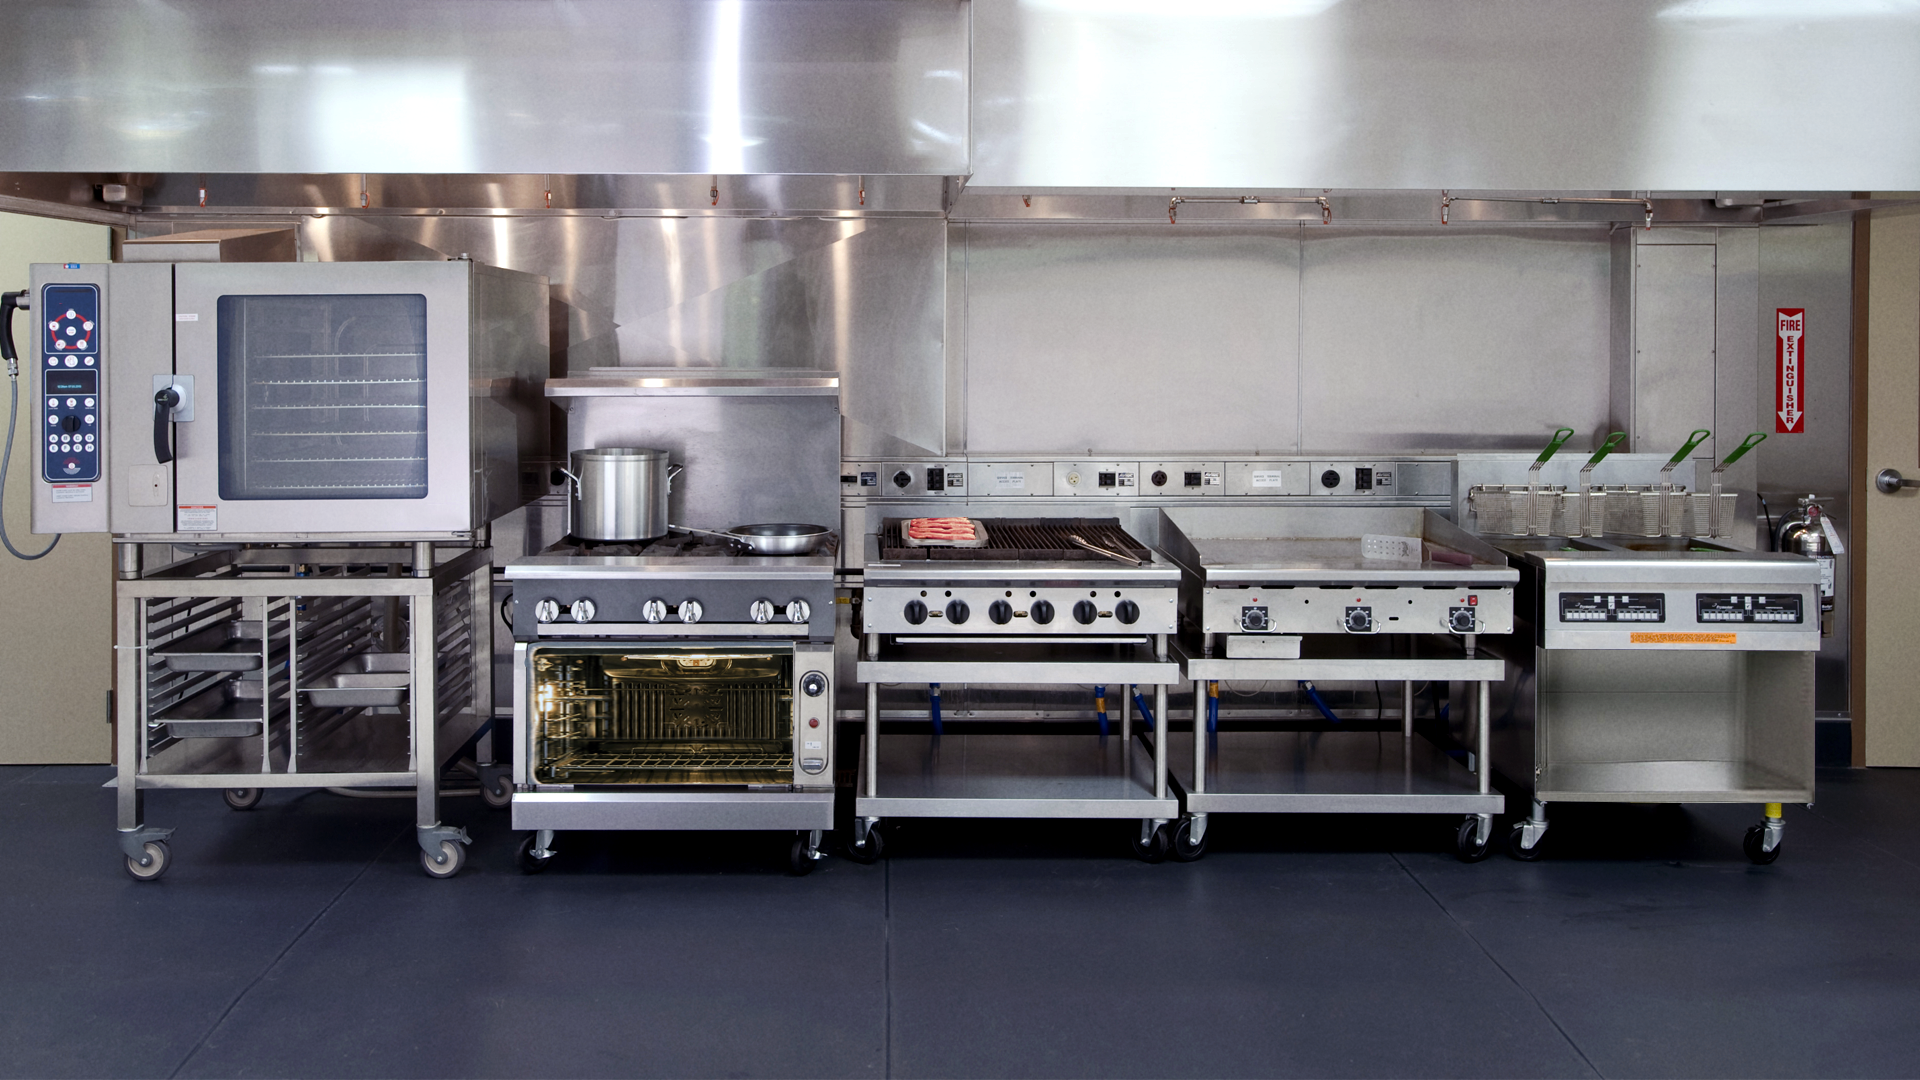
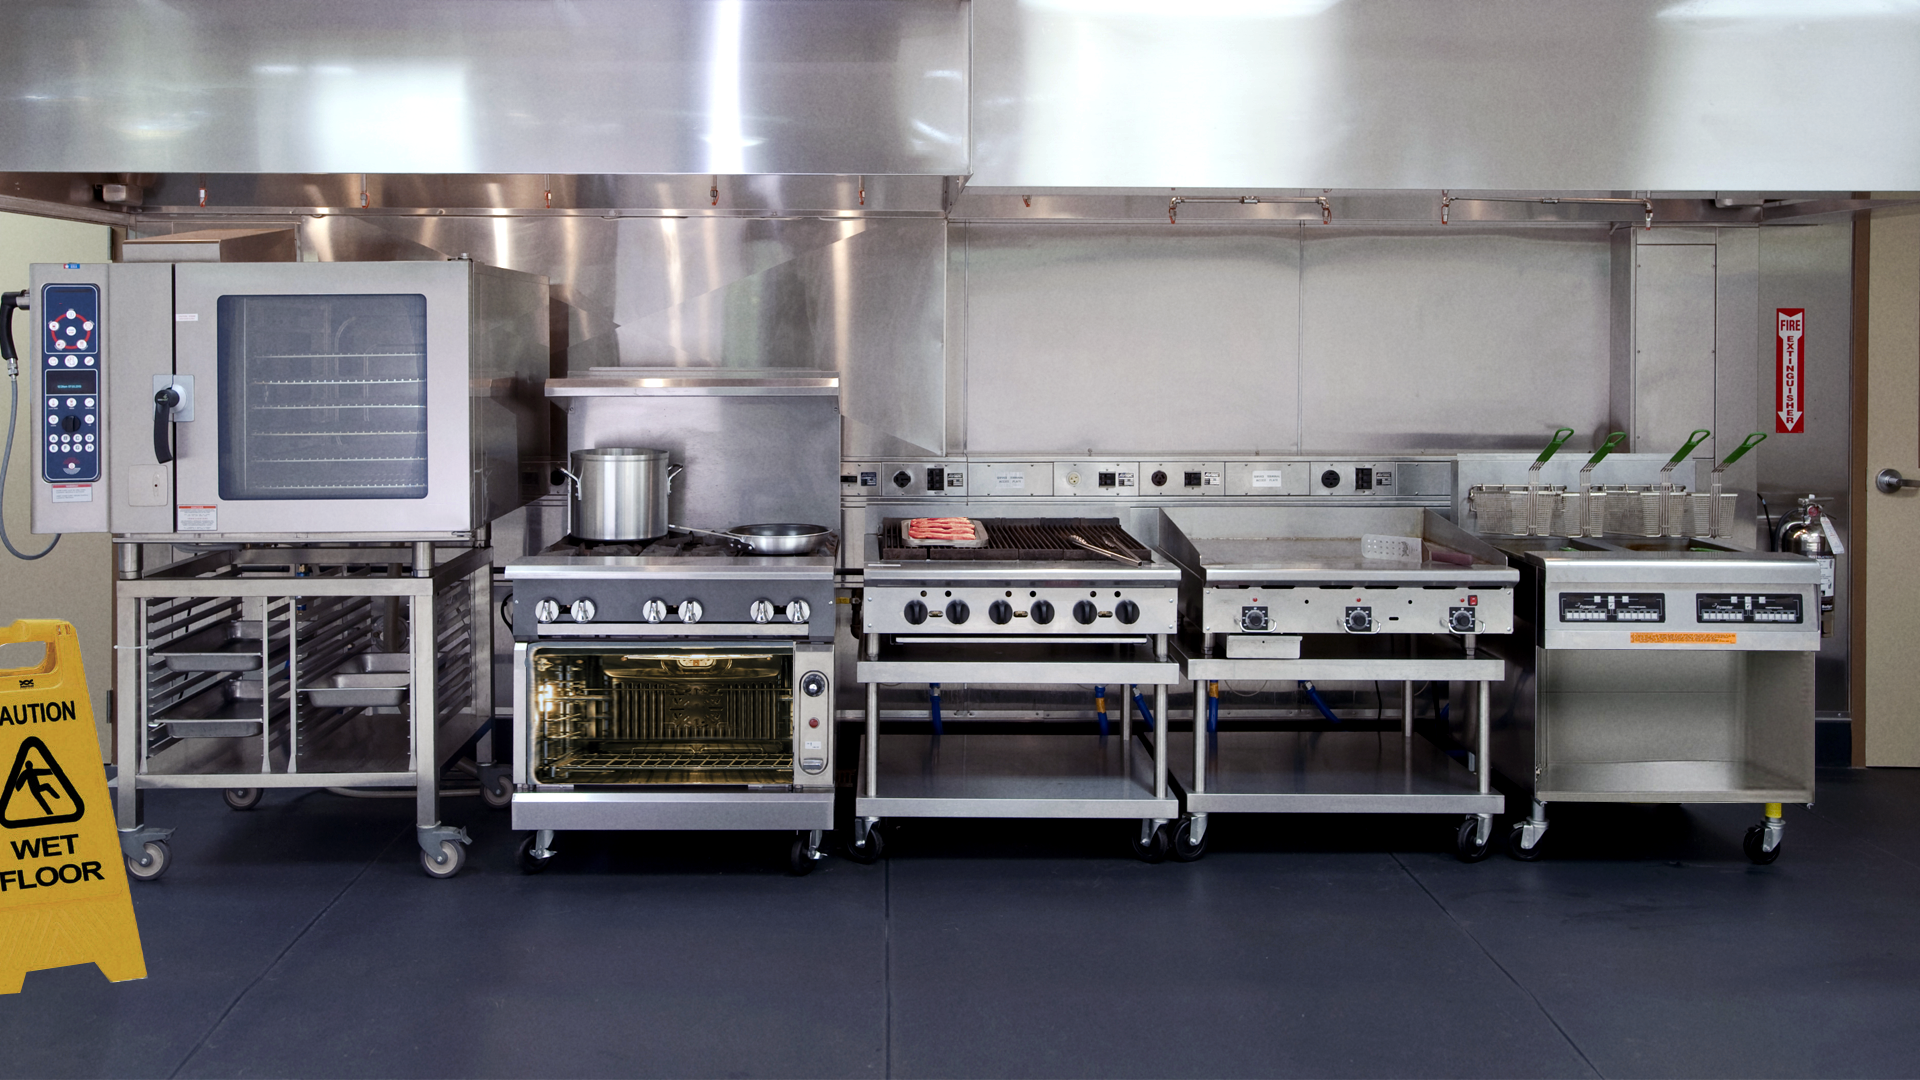
Updated room appearences

Changed region(s): [[0.0, 0.55, 0.0938, 0.9167]]

diff --git a/Game/Clued-Up/Assets/Scripts/ClickHotspot.cs b/Game/Clued-Up/Assets/Scripts/ClickHotspot.cs
@@ -109,6 +109,10 @@ public class ClickHotspot : MonoBehaviour {
 			messages.Add ("Where the magic happens.");
 			messages.Add ("It's not on, don't worry.");
 			break;
+		case "wetFloor":
+			messages.Add ("Ooops! Spillage!");
+			messages.Add ("Thou shalt not pass the sign. (Health and saftey gone mad etc.)");
+			break;
 
 		//room6 bar
 		case "beerTaps":
